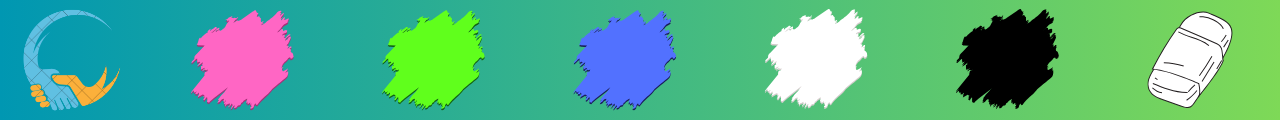
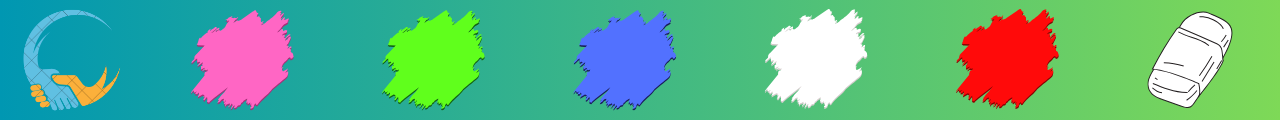
Finished virtual painter

Changed region(s): [[0.75, 0.075, 0.8438, 0.9]]

diff --git a/ai_virtual_painter/AIVirtualPainter.py b/ai_virtual_painter/AIVirtualPainter.py
@@ -26,7 +26,8 @@ def draw_cursor(image, x, y, color):
     cv2.circle(image, (x, y), 30, color, 3)
 
 
-img_canvas = np.full((720, 1280, 3), (100, 100, 100), np.uint8)
+# img_canvas = np.full((720, 1280, 3), (100, 100, 100), np.uint8)
+img_canvas = np.zeros((720, 1280, 3), np.uint8)
 
 while True:
     # 1. Import image
@@ -35,13 +36,13 @@ while True:
         break
 
     img = cv2.flip(img, 1)
-    img[0:120, 0:width] = menu
 
     # 2. Find hand landmarks
     img = detector.find_hands(img)
     lm_list = detector.find_position(img, draw=False)  # Use draw=False to avoid drawing landmarks
 
     if len(lm_list) != 0:
+
         # Tip of index and middle finger
         x1, y1 = lm_list[8][1:]  # Index finger
         x2, y2 = lm_list[12][1:]  # Middle finger
@@ -51,6 +52,8 @@ while True:
 
         # 4. If selection mode - Two fingers are up
         if fingers[1] and fingers[2]:
+            xp, yp = 0, 0
+            print("Selection mode")
             if y1 < 120:
                 # Purple
                 if 200 < x1 < 350:
@@ -72,25 +75,28 @@ while True:
                     cursor_x, cursor_y = 815, 60
                     cursor_color = (0, 0, 0)
                     selected_color = (255, 255, 255)
-                # Black
+                # Red
                 elif 950 < x1 < 1050:
                     cursor_x, cursor_y = 1005, 60
-                    cursor_color = (255, 255, 255)
-                    selected_color = (0, 0, 0)
+                    cursor_color = (0, 0, 255)
+                    selected_color = (0, 0, 255)
                 # Eraser
                 elif 1150 < x1 < 1280:
                     cursor_x, cursor_y = 1195, 60
                     cursor_color = (0, 0, 0)
-                    selected_color =(100, 100, 100)
+                    selected_color = (0, 0, 0)
             cv2.circle(img, (x1, y1), 30, selected_color, 3)
 
         # 5. If draw mode - Index finger is up
         if fingers[1] and not fingers[2]:
+            # xp, yp = 0, 0
+            print("Drawing mode")
+
             cv2.circle(img, (x1, y1), 15, selected_color, cv2.FILLED)
 
             if xp == 0 and yp == 0:
                 xp, yp = x1, y1
-            if selected_color == (100,100,100):
+            if selected_color == (0, 0, 0):
                 cv2.line(img, (xp, yp), (x1, y1), selected_color, eraser_thickness)
                 cv2.line(img_canvas, (xp, yp), (x1, y1), selected_color, eraser_thickness)
             else:
@@ -101,8 +107,16 @@ while True:
     if selected_color is not None and cursor_x is not None and cursor_y is not None:
         draw_cursor(img, cursor_x, cursor_y, cursor_color)
 
+    img_gray = cv2.cvtColor(img_canvas, cv2.COLOR_BGR2GRAY)
+    _, img_inv = cv2.threshold(img_gray, 50, 255, cv2.THRESH_BINARY_INV)
+    img_inv = cv2.cvtColor(img_inv, cv2.COLOR_GRAY2BGR)
+
+    img = cv2.bitwise_and(img, img_inv)
+    img = cv2.bitwise_or(img, img_canvas)
+
+    img[0:120, 0:width] = menu
     cv2.imshow("Image", img)
-    cv2.imshow("Canvas", img_canvas)
+    # cv2.imshow("Canvas", img_canvas)
 
     # Check for key press
     key = cv2.waitKey(1) & 0xFF
